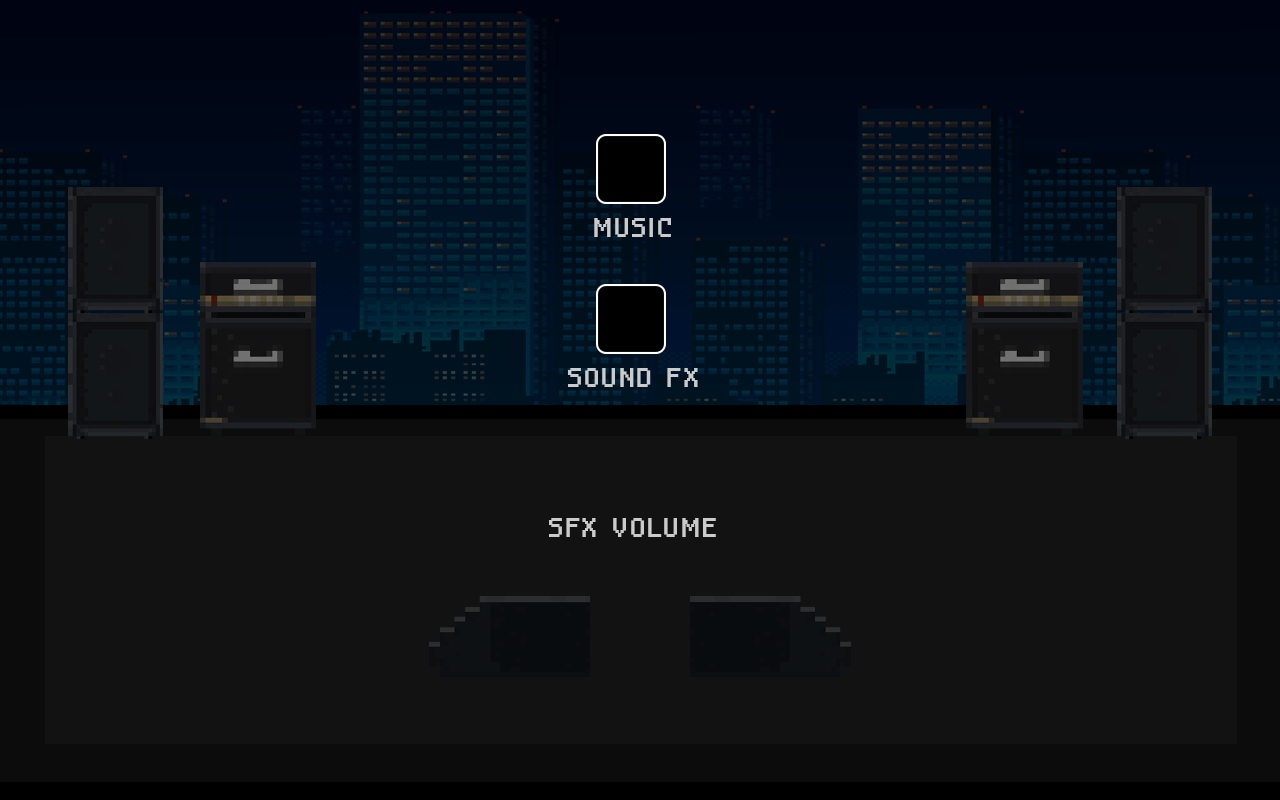
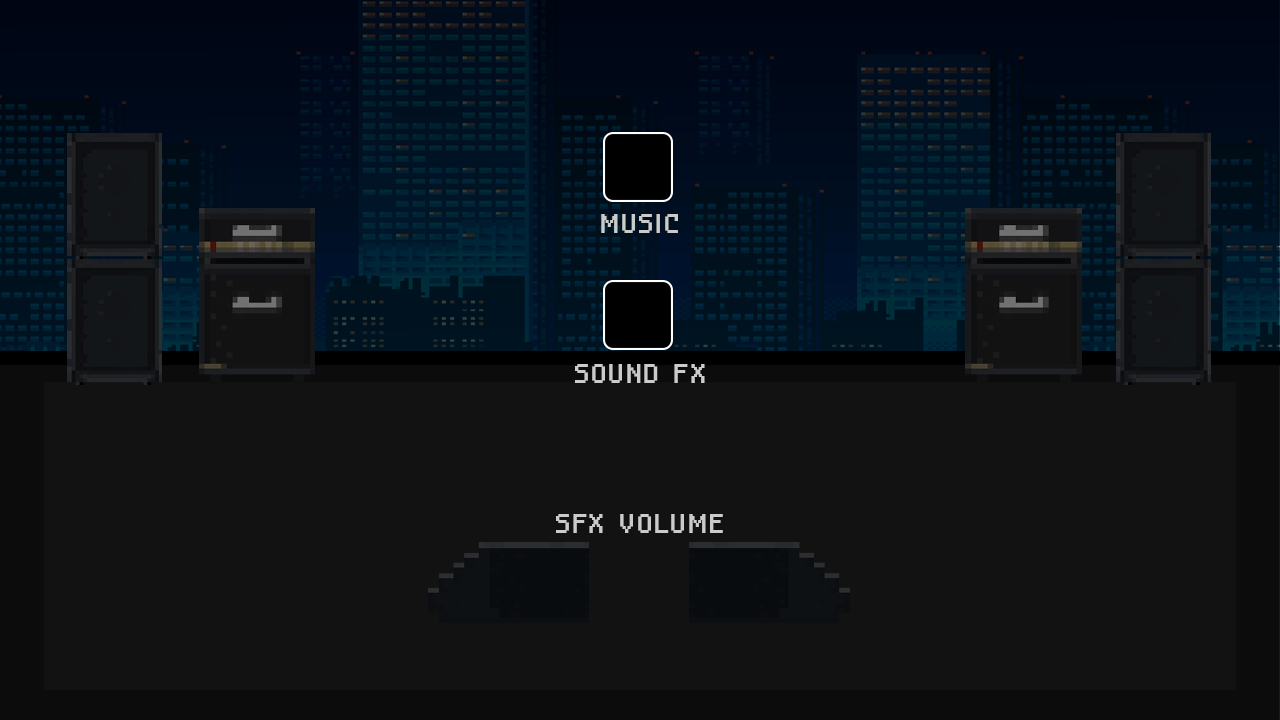
added updated background

diff --git a/src/game/BeatBitBeatMain.java b/src/game/BeatBitBeatMain.java
@@ -37,8 +37,8 @@ public class BeatBitBeatMain extends StateBasedGame {
     private static final int credits = 6;
 
     // Display Resolution
-    private static int displayWidth = 1280;
-    private static int displayHeight = 800;
+    private static final int displayWidth = 1280;
+    private static final int displayHeight = 720;
 
     //Options
     private static int volumeSFX = 9;
@@ -53,10 +53,8 @@ public class BeatBitBeatMain extends StateBasedGame {
 
 
     public static void main(String[] args) throws SlickException {
-//        displayWidth = app.getScreenWidth();
-//        displayHeight = app.getScreenHeight();
-
         AppGameContainer app = new AppGameContainer(new BeatBitBeatMain(gameName));
+        System.setProperty(" org.lwjgl.opengl.Window.undecorated", "true");
         app.setTitle("BeatBitBeat");                // Title for top bar
         app.setDisplayMode(displayWidth, displayHeight, false);     // fullscreen false for now
         app.setVSync(true);                         // matches monitor refresh rate. or use app.setTargetFrameRate(60);
@@ -65,7 +63,7 @@ public class BeatBitBeatMain extends StateBasedGame {
 
         app.start();
 
-//        System.setProperty(" org.lwjgl.opengl.Window.undecorated", "true");
+
     }
 
     public void initStatesList(GameContainer gc) throws SlickException {

diff --git a/src/game/MainMenuState.java b/src/game/MainMenuState.java
@@ -91,7 +91,7 @@ public class MainMenuState extends BasicGameState implements KeyListener {
 
 //        imageBG = new Image("Assets/Graphics/Main Menu/Main Menu BG.png");
         // TODO: Replace correct file for background spritesheet
-        SpriteSheet spriteBG = new SpriteSheet("Assets/Graphics/Main Menu/anim fire.png", 1280, 800, 0); //ref, tw, th, spacing
+        SpriteSheet spriteBG = new SpriteSheet("Assets/Graphics/Main Menu/Main Menu BG.png", 1280, 720, 0); //ref, tw, th, spacing
         animateBGFire = new Animation(spriteBG, 200);     // spritesheet, duration
 
 
